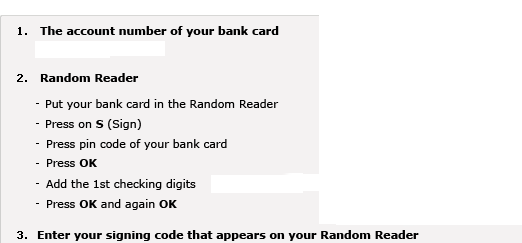
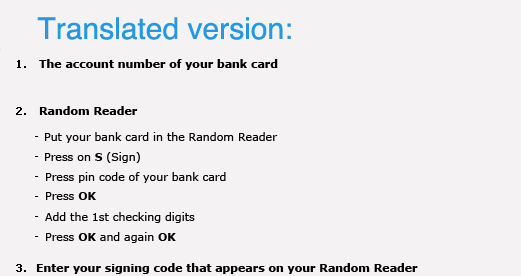
Rabobank fix

diff --git a/action.js b/action.js
@@ -1,9 +1,11 @@
 $(document).ready(function() {
 	var dictionary = {
 		"Uw veiligheid": "Your security",
-		"Gebruik bij het inloggen op Rabo Internetbankieren de I-toets van uw  Random Reader. Gebruik de S-toets alleen bij het verzenden. Ziet u iets afwijkends? Bel direct de Helpdesk Internetbankieren: 0900 - 0905 (lokaal tarief).": "Only use the 'I' button from your Random Reader for logging in to Rabo Internetbanking. Only use the 'S' button if you want to send payments. Do you see something weird? Call the Helpdesk Internetbanking (DUTCH): 0900-0905 (local tariff)",
 		"Meer informatie": "More information",
 		"Heeft u geen toegang tot Rabo Internetbankieren?": "No access to Rabo Internetbanking?",
+		"Gebruik bij het inloggen op Rabo Internetbankieren de I-toets van uw  Random Reader.": "Only use the 'I' button from your Random Reader for logging in to Rabo Internetbanking.",
+		"Gebruik de S-toets alleen bij het verzenden.": "Only use the 'S' button if you want to send payments.",
+		"Ziet u iets afwijkends? Bel direct de Helpdesk Internetbankieren:": "Do you see something weird? Call the Helpdesk Internetbanking (DUTCH):",
 		"Aanvragen": "Request",
 		"Met Rabo Internetbankieren kunt u altijd via Internet uw rekeningen inzien en transacties uitvoeren.": "With Rabo Internetbanking you can always access your bank account details and send payments.",
 		"Informatie over Rabo Internetbankieren": "More information on Rabo Internetbanking (DUTCH)",
@@ -133,7 +135,8 @@ $(document).ready(function() {
 		"Nieuw": "New",
 		"Signeercode": "Signing code",
 		"Ga alleen verder als de adresregel begint met https://bankieren.rabobank.nl/...": "Only continue when the URL bar starts with https://bankieren.rabobank.nl/...",
-		"Hoe controleert u de veiligheid van uw verbinding?": "How to check the security of the connection (DUTCH)"		
+		"Hoe controleert u de veiligheid van uw verbinding?": "How to check the security of the connection (DUTCH)",
+		"0900 - 0905 (lokaal tarief).": "0900-0905 (local tariff)"
 	}
 
   function get_definition(str) {
@@ -165,5 +168,10 @@ $(document).ready(function() {
 		$('#brt_but_annuleren').css('background-image', 'url('+chrome.extension.getURL("button-cancel.png")+')');
 	});
 	var skiheight = $('img#skimage').height();
-	$('img#skimage').before('<img src="'+chrome.extension.getURL("payment-"+skiheight+".png")+'" style="position: absolute;" />');
+	if (skiheight >= 500) {
+		skiheight = "243";
+	} else {
+		skiheight = "single";
+	}
+	$('img#skimage').before('<img src="'+chrome.extension.getURL("payment-"+skiheight+".png")+'" style="position: absolute; top: -55px; right: -600px;" />');
 });

diff --git a/popup.html b/popup.html
@@ -17,7 +17,7 @@
 	<body>
 		<h1>Studentify Translate</h1>
 		<h2>About</h2>
-		<p>We try to help foreign students as much as possible. One of the very practical problems foreign students face is that most communication online (with the government, banking, etc) is in Dutch. The 'English pages' these websites offer are usually insufficient. Google Translate doesn't work over HTTPS connections, it's simply to unsafe.</p>
+		<p>We try to help foreign students as much as possible. One of the very practical problems foreign students face is that most communication online (with the government, banking, etc) is in Dutch. The 'English pages' these websites offer are usually insufficient. Google Translate doesn't work over HTTPS connections, it's simply too unsafe.</p>
 		<p>That's why we've created Studentify Translate. Studentify Translate is a simple, safe tool to translate it on the fly. It's safe because all requests are kept within the browser, so nothing goes to any external server, it's simply translated on your local computer.</p>
 		<h2>Runtime</h2>
 		<p>To increase load time, Studentify Translate will only run on the following (secured) websites:</p>
